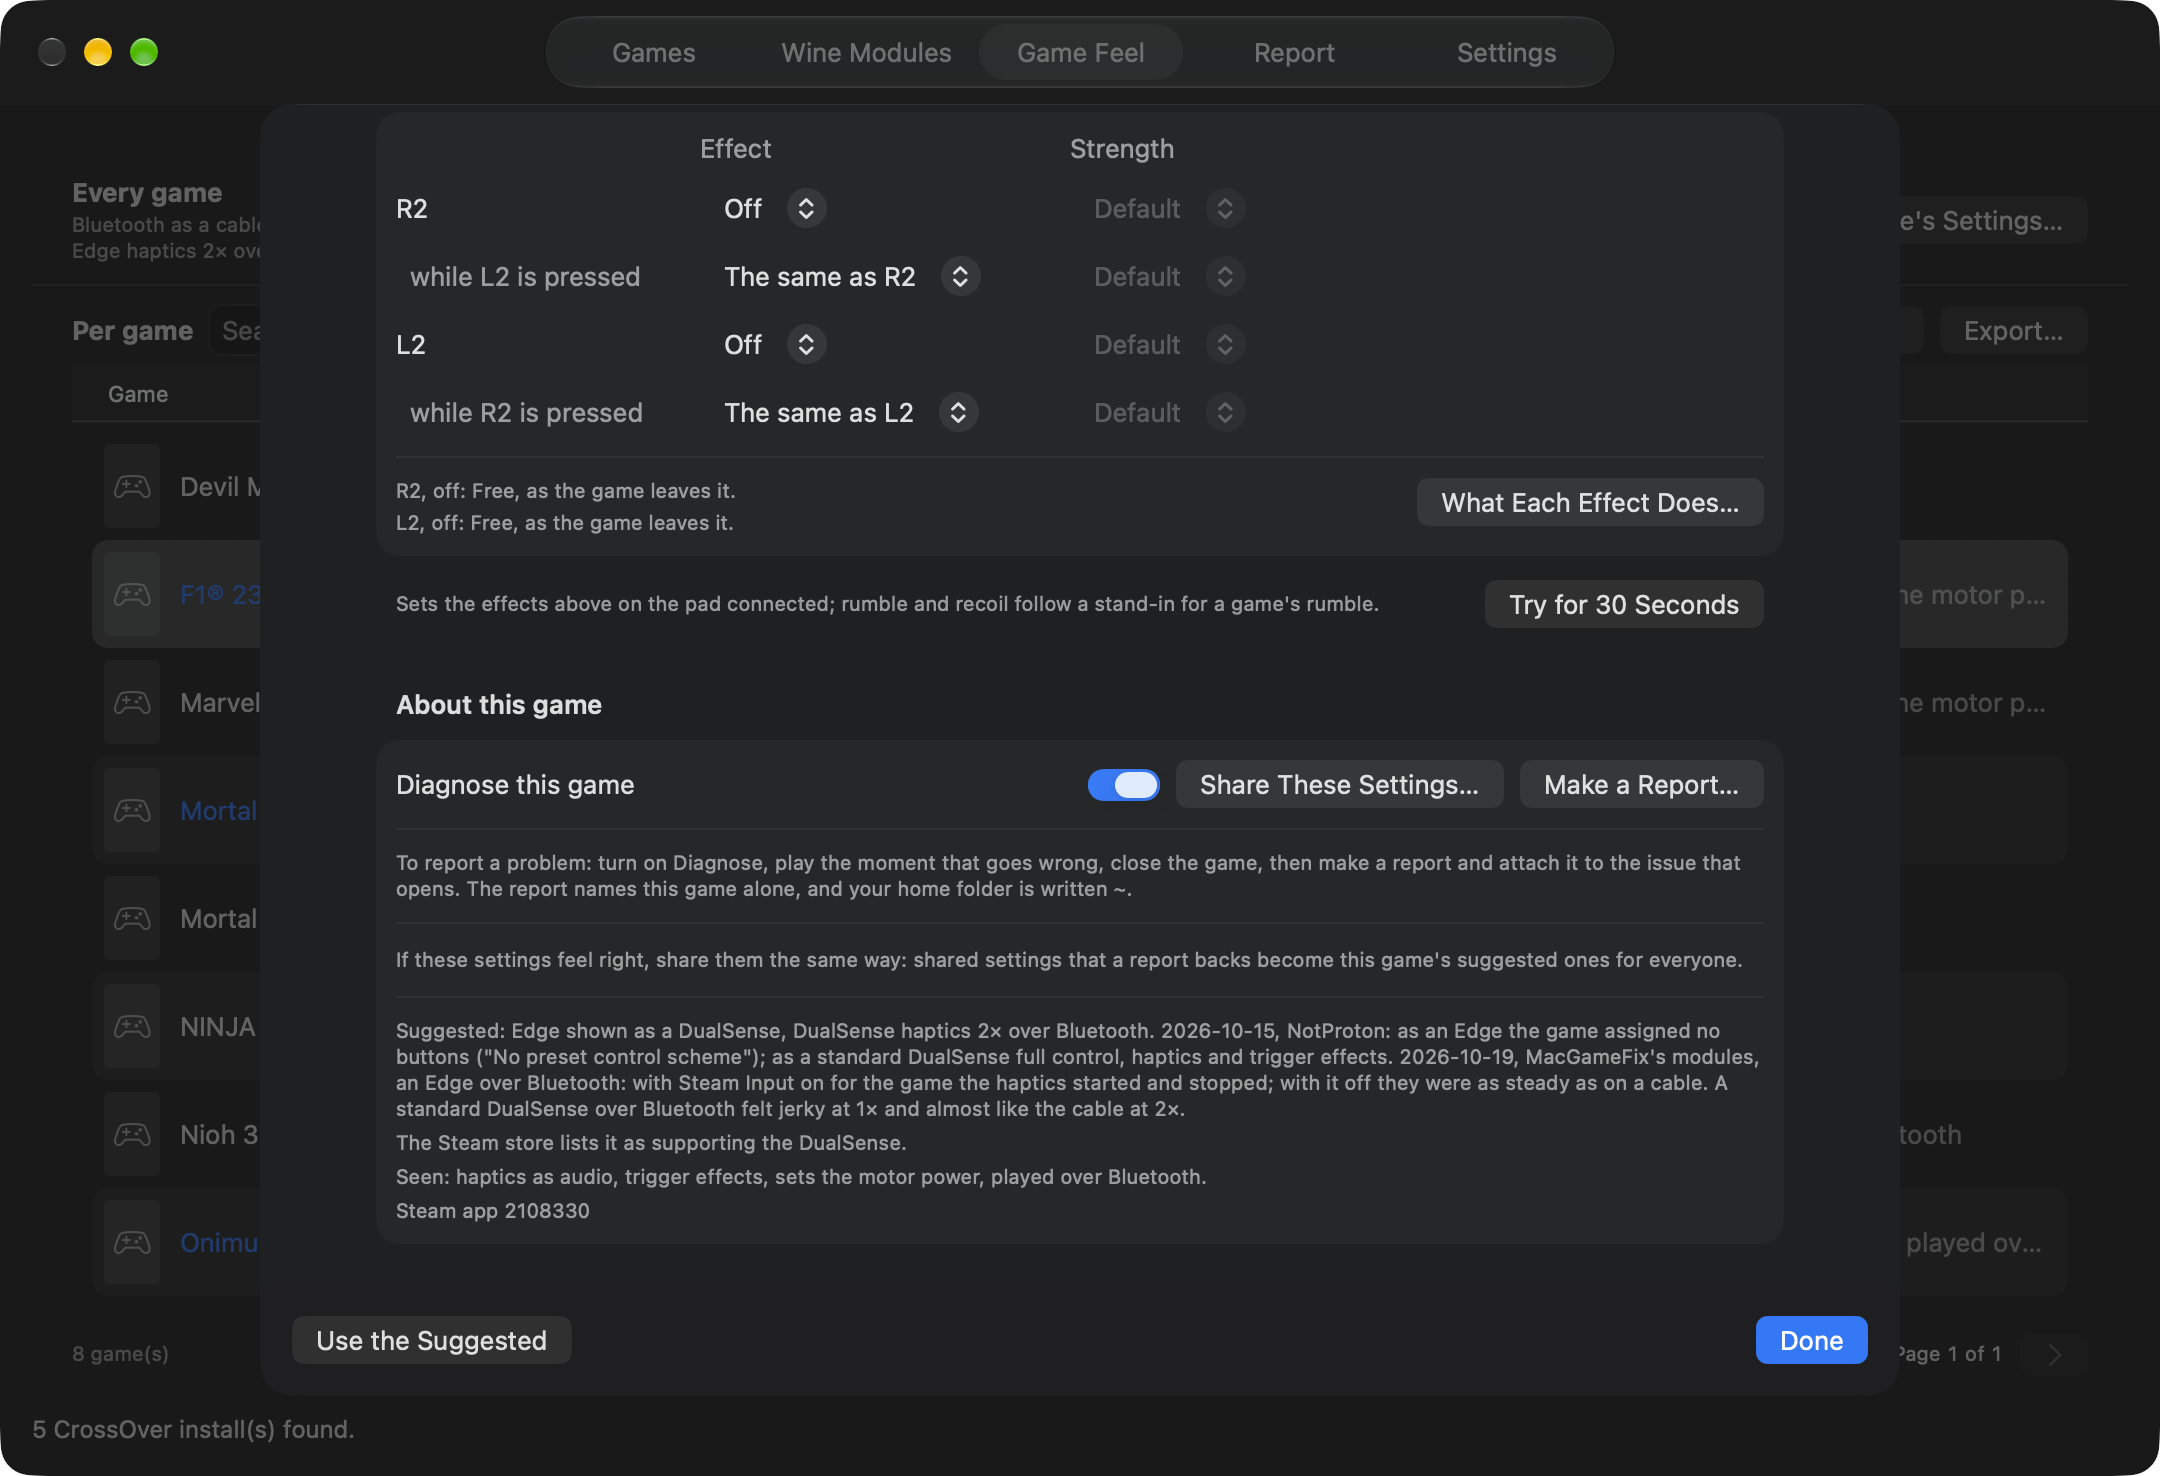
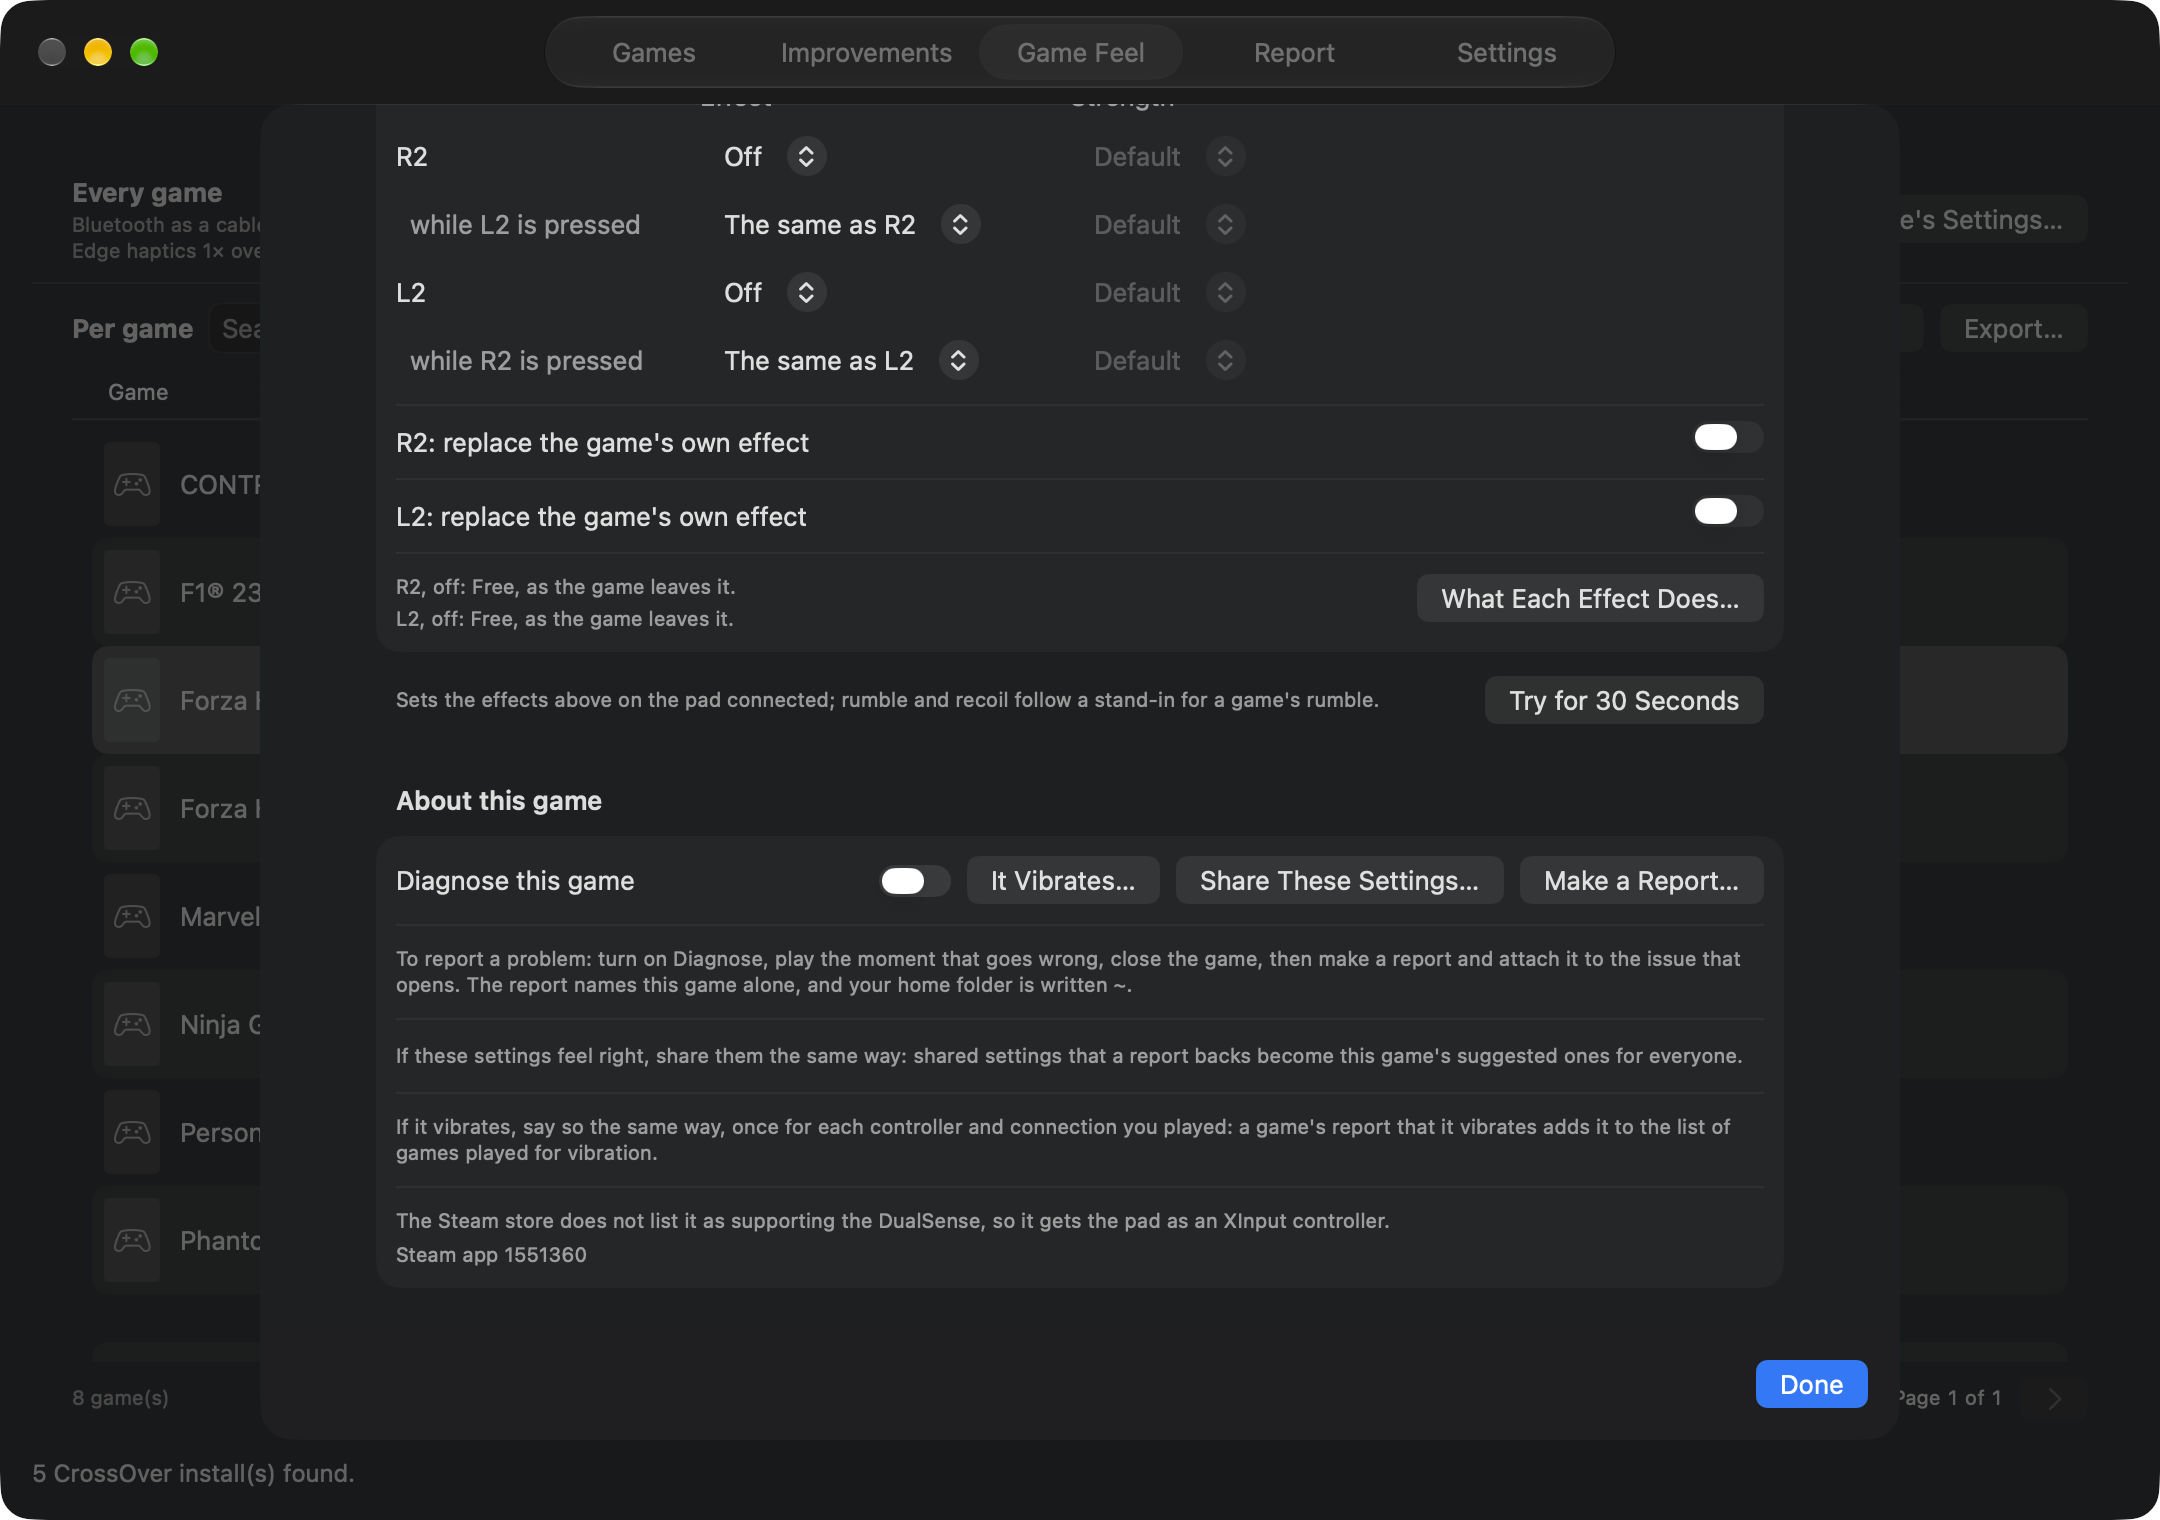
Screenshots of 1.6.3, and their list
The set was of 1.5.5: a Wine Modules tab that is now Improvements, no Game
Mode, no Fans. These sixteen are of 1.6.3, taken from a copy with a demo
home as the README describes. The list names what is not pictured, and why
the Fans image shows an update line that #78 took away.

diff --git a/docs/images/README.md b/docs/images/README.md
@@ -1,17 +1,16 @@
 # Screenshots
 
-MacGameFix 1.5.5 (Wine modules catalog 1792547610), dark mode, at 2x. Each file name is the tab, then the
-state or sheet; pages link to them by name, so a name stays when its image is retaken.
+MacGameFix 1.6.3 (the build of 2026-11-14 at f74d86c, catalogs 1794704089), dark mode, at 2x. Each file name
+is the tab, then the state or sheet; pages link to them by name, so a name stays when its image is retaken.
 
 | File | What it shows |
 |---|---|
 | `games-all.png` | Games, the All filter: each supported game, what its fix requires, its state, Keep, and where it goes |
 | `games-all-fixes.png` | Games, All fixes: adds the catalog's games that are not on this Mac |
-| `games-not-fixed.png` | Games, Not fixed |
 | `games-selected.png` | Games with a row selected: Install Selected and Remove Selected |
-| `wine-modules.png` | Wine Modules: a switch per CrossOver app and NotProton runner, and the modules' updates |
-| `wine-modules-all-alert.png` | The question All asks before installing into every CrossOver |
-| `wine-modules-crossover-alert.png` | "Change CrossOver itself?", asked before the modules go into a CrossOver app |
+| `improvements.png` | Improvements: DualSense controllers and Copy protection under Rosetta, a switch per CrossOver app and NotProton runner |
+| `improvements-rosetta.png` | The same tab, scrolled: Copy protection under Rosetta with its All and None, and Game Mode |
+| `improvements-fans.png` | The same tab, scrolled to the end: Game Mode, Fans with the two variables to copy, and the modules' updates |
 | `game-feel.png` | Game Feel: every game's options, and each game's own |
 | `game-feel-every-game.png` | Every Game's Settings: the options and the haptics' strength |
 | `game-feel-every-game-triggers.png` | The same sheet, scrolled: the tries and the trigger effects |
@@ -22,6 +21,11 @@ state or sheet; pages link to them by name, so a name stays when its image is re
 | `report-sheet.png` | A game's report sheet: what MacGameFix found in the game's folder |
 | `report-sheet-steps.png` | The same sheet, scrolled: the steps before a report, and Save the Report and Open an Issue |
 | `settings.png` | Settings, as on a first launch: the agent is off until it is turned on |
+
+Not pictured: a game's special instructions (Forza Horizon 6's were reordered after this set was taken, in #77),
+the Not fixed filter, and the two questions asked before an improvement goes into every CrossOver or into a
+CrossOver app. In `improvements-fans.png` the helper reads as older than the app's, which is how this build
+told every new build apart; since #78 it compares versions, and that line shows only for a real update.
 
 ## How they are taken
 
